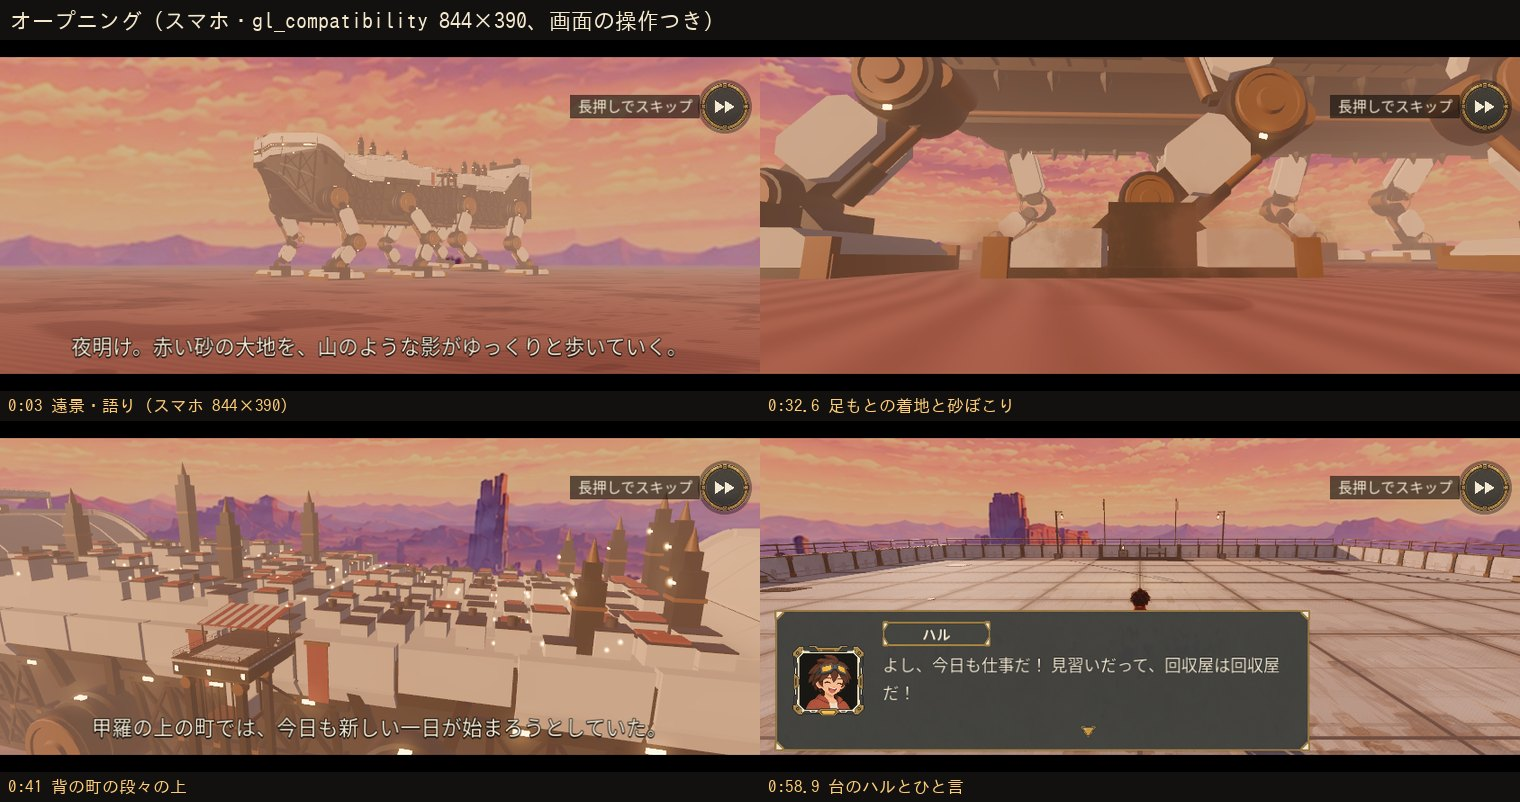
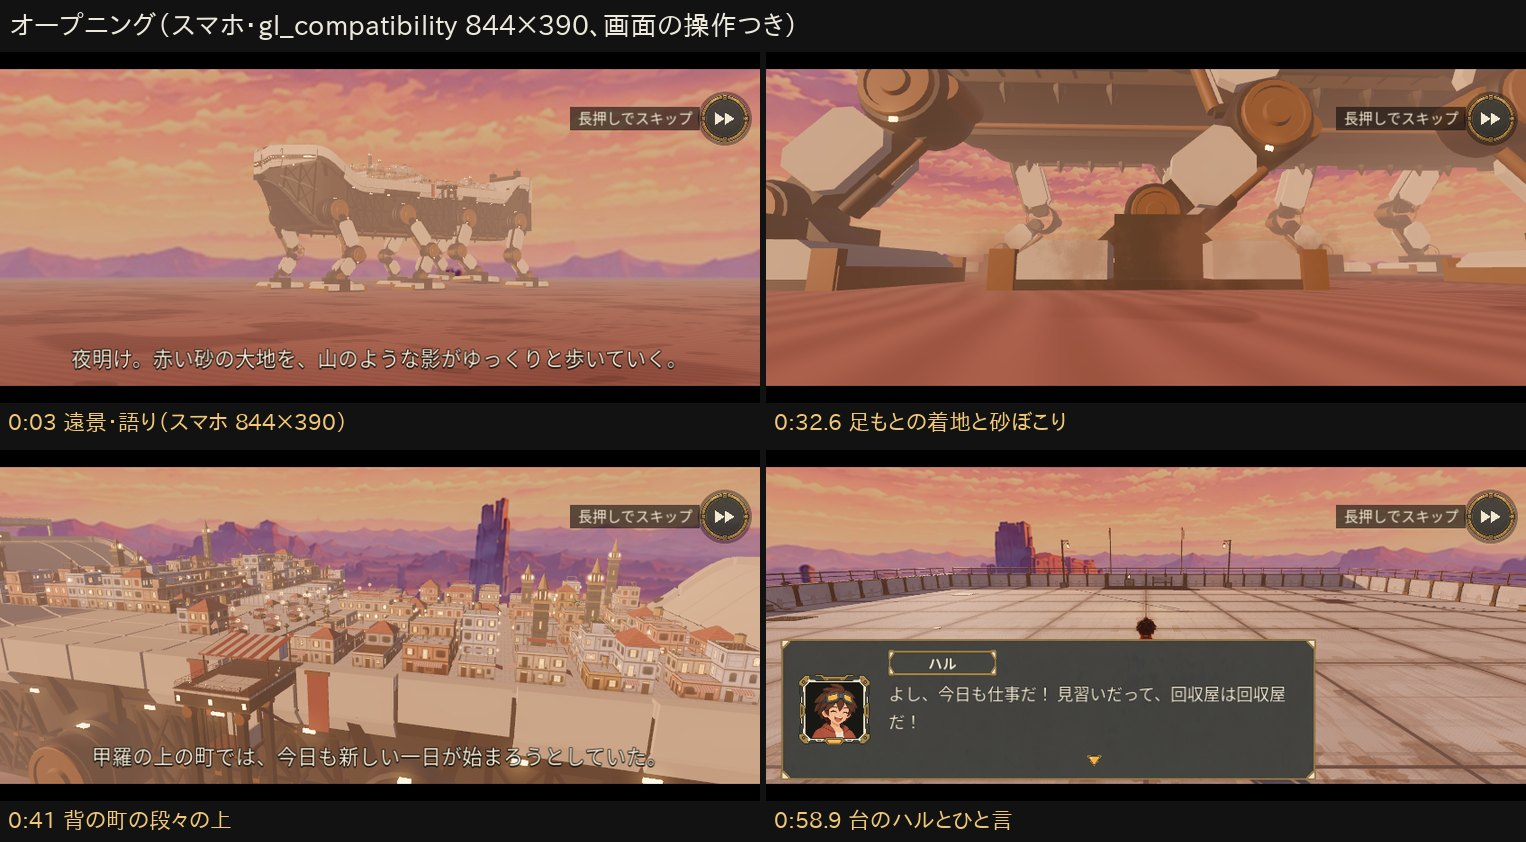
Back town: before/after sheets, re-shot opening and stop storyboards, plan doc numbers
Claude-Session: https://claude.ai/code/session_01Bcwddx3BN325aEnzr3cFiU

diff --git a/docs/art_orders/W2_オルド3D化の結果.md b/docs/art_orders/W2_オルド3D化の結果.md
@@ -515,6 +515,7 @@ Godot の画面（`tools/godot.sh shot --resolution 800x450 --script /abs/tools/
 | 停止 S1〜S3（外の舞台） | 16〜18 回・6.4 万 | 15〜17 回・6.3 万 |
 | 停止の家（眠る・目覚め・会話） | 71〜97 回・11.6 万 | 87 回・8.4 万 |
 
+- **2026-11-01**：背の町を作り直し（11.12）、どの場面も描画 +1（町の 1 つのメッシュ）・三角形 +2.1 万（町 2.9 万。前は体の面にまとめた 0.86 万）。D の 0:44 は道筋を下げて 65 回（前 67）。数は 11.12。
 - 遠くの場面は台を描かないので、オルド（3）・砂の床（1）・町の灯（1）・砂ぼこり（2：やわらかい塊と砂粒の層）・空と HUD だけ。前のオープニングの台の上のカメラ（PC 105・スマホ 108。10.4）より軽い。
   いちばん重いのは最後の台の上で、前と同じ部屋の同じ見え方（ハルの会話の窓の分 +10）。
 - 砂ぼこりの粒は大きな半透明の板なので、近いカメラでは数を減らし（11〜14 粒）、大きさを距離の 0.6 倍までにした（画面を何枚も覆わない）。
@@ -545,6 +546,8 @@ Godot の画面（`tools/godot.sh shot --resolution 800x450 --script /abs/tools/
 | `opening_pc.jpg` | オープニング 10 こま（PC 1600×900 から）：遠景・遠くの足の砂ぼこり・回り込み・足もとの着地・見上げ・縁を越えて町の上・頭へ・台のハル |
 | `opening_phone.jpg` | スマホ 4 こま（844×390）：遠景と語り・足もとの着地・町の上・台のハル |
 | `stop_pc.jpg` | 停止の場面 9 こま（PC）：眠る・夜のオルド・脚・着地の砂ぼこり・沈む・灯が消えていく・消えた町・家の目覚め・会話 |
+
+（3 枚とも 2026-11-01 に、作り直した背の町と下げた D の道筋で撮り直した：11.12）
 
 見て直したこと：①遠景のオルドがピンクの霞に溶けて平らに見えた → 夜明けの太陽を船首の左舷寄りへ、冷たい環境光と強い太陽（キットの `dawn`）、遠景の霞を薄く ②足もとのカメラが足の中に入った・遠すぎた → 足から約 70 m・砂の 1.5〜3 m 上
 ③砂の床の岩の斑が低いカメラから黒い穴に見えた → 場面の間は薄く ④足音の大きさ・揺れが遊びのカメラ（台の上）からの距離で決まっていた → 場面のカメラを決めたあとでオルドの時計を進める
@@ -593,3 +596,58 @@ Godot の画面（`tools/godot.sh shot --resolution 800x450 --script /abs/tools/
 - 上の段（床 11.5、z 34〜95）：広場、町長の家（x -29〜-15、z 52〜61、屋上の庭・日よけ・水槽）、ギルド（x 12〜28、3 階、丸窓・旗・日よけ・屋上の見張りの塔）、
   展望台の板張り（|x| < 8、z 64〜76）と塔、東西の家並み、船首の側の家と塔 2 つ。段の外の面に扉と灯。
 - 部屋との重なり：中段の部屋の下の段の家並み（`lower_block`）は z -54 まで、`ordo_back` は z -56.5 から（`test_back_town`）。下段の部屋の胸壁は z -22.5。
+
+軽さ（描画の回数・三角形。`--opening_shots` が出す数。前は作り直す前の同じ時刻・同じ道筋。D の 0:44・0:47 は道筋を下げたあと）：
+
+| 場面 | PC 前 | PC 後 | スマホ 前 | スマホ 後 |
+|------|-------|-------|-----------|-----------|
+| A 0:03 夜明けの遠景（いちばん広い） | 18・6.4 万 | 19・8.5 万 | 18・6.4 万 | 19・8.4 万 |
+| B 0:17 回り込み | 20・6.4 万 | 21・8.5 万 | — | — |
+| B 0:24 左舷の真横 | 17・6.4 万 | 18・8.4 万 | 22・6.4 万 | 23・8.5 万 |
+| D 0:41 縁を越えて町の上へ | 46・6.4 万 | 47・8.5 万 | 31・7.9 万 | 32・10.0 万 |
+| D 0:44 広場と市場の上 | 67・8.8 万 | 65・10.8 万 | — | — |
+| D 0:47 町の上を船首へ | 80・9.0 万 | 81・11.0 万 | 57・9.6 万 | 58・11.7 万 |
+| 停止 S1 夜のオルド（4.5 秒） | 16・6.4 万 | 17・8.4 万 | — | — |
+| 停止 S3 夜の見下ろし（15 秒） | 18・6.4 万 | 19・8.4 万 | 17・6.4 万 | 18・8.4 万 |
+
+- 町は 1 つのメッシュ・1 つの材質・1 枚の帳（1024 × 1024、取り込みは VRAM 圧縮と mipmap。約 1.3 MB）。影は落とさない。頂点 6.3 万（四角形ごとに 4 つ。GLB 2.2 MB：UV は 16 bit、頂点の色は 8 bit、番号は 16 bit）。
+- 灯の点は 297（窓 240・街灯 41・塔 16。前 218）。描画は前と同じ 1 回。
+
+確かめたこと：
+
+- `tools/godot.sh import`、`tools/godot.sh test`（全 228 本、確認 5,174 件、失敗 0）、`tools/godot.sh run --fixed-fps 60 -- --demo=build/ch1 --ch1_full`（CH1_RESULT）。
+  新しいテスト `test_ordo.gd` の `test_back_town`：町は骨組みの子の 1 つのメッシュ（面 1 つ・影なし・帳のシェーダーと帳の絵）、体の面は 3 つのまま、
+  三角形の上限（`ordo_town` 3.4 万・`ordo_back` 1.2 万）、町の中に収まる、`ordo_back` は z -55 より南、光る頂点がある、既定は消えている・昼は光らない・夜は光る、
+  明るさ・ちらつき・消えた割合を渡して雰囲気を替えても残る、灯の点にも同じ値、材質はオルドごと。`test_ordo_in_town_rooms` に「町は帳の部品の 1 つのメッシュ」。
+- 撮影：オープニングと停止（`--opening_shots`）を PC（Forward+）とスマホ（`gl_compatibility`）で、中段・下段の部屋の胸壁の向こう（`--town_audit --audit_views=<JSON>`。
+  昼・停電の夜・`"back_lights"` で灯した例）を PC とスマホで。前の画像は、作り直す前の `godot/` の写し（取り込み済み）を同じ引数で撮った。
+- 見て直したこと：①露店の屋根が下を向いていた（暗い裏の布が見えた）→ 面の向き ②帳の白磁の壁の模様（タイルの継ぎ目と金具）が濃く、遠くで灰色の点の柄に見えた → 濃さを 0.55 → 0.32
+  ③南の区画の塔 6 本が空の線を占めた → 4 本に、低く ④上の段の外の面（段の壁）が夜にただの灰色の格子 → 扉と灯 ⑤町の部屋の夜（停電の夜だけ）に遠くの窓が灯っていた → 既定は消す
+  ⑥こま並べの字の `_` が出ない字体 → 字体を替えた。
+
+| 画像（`docs/progress_shots/back_town/`） | 中身 |
+|------|------|
+| `back_town_pc_day.jpg` | 前と後（PC）：オープニングの遠景 0:03・左舷の真横 0:24・縁を越えて町の上 0:41・広場の上 0:44 |
+| `back_town_pc_night.jpg` | 前と後（PC）：停止の S1（夜のオルド）・S3（灯が消えていく・消えた町）、中段の部屋の停電の夜、灯した例 |
+| `back_town_phone.jpg` | 前と後（スマホ 844×390）：遠景・町の上 0:41・0:47・停止の S3、中段の部屋の昼と夜 |
+| `back_town_rooms.jpg` | 前と後（PC）：中段と下段の胸壁の向こう（昼）。中段の部屋の下の段の家並みと重ならない |
+
+部屋（`--town_audit`、PC・Forward+ 1600×900 とスマホ 844×390）：どの向きも描画 +1・三角形 +0.6 万（`ordo_back` 0.94 万。前 0.34 万）。
+
+| 向き | PC 前 | PC 後 | スマホ 前 | スマホ 後 |
+|------|-------|-------|-----------|-----------|
+| 中段 南の胸壁（いちばん重い） | 205・32.4 万 | 206・33.0 万 | 220・26.6 万 | 221・27.2 万 |
+| 中段 高い所から | 151・18.1 万 | 152・18.7 万 | 166・17.9 万 | 167・18.5 万 |
+| 下段 南の胸壁 | 136・24.9 万 | 137・25.5 万 | 151・19.0 万 | 152・19.6 万 |
+
+残り：
+
+| 残り | 中身 | いつ・どこで |
+|------|------|-------------|
+| 町の部屋の夜の遠くの町の灯 | 既定は消えている（町の部屋の夜は停電の夜だけ）。非常灯だけ残す・再始動の夜などは `OrdoView.set_back_lights`（部屋のオルドは `main._ordo()`） | 夜の明かりの仕事 |
+| 下段の胸壁の向こうの手前 | 胸壁（z -22.5）から `ordo_back`（z -56.5）までは前と同じく背の面のまま（下段の部屋の高い所からだけ見える） | 気になれば `ordo_back` の北に下段だけの区画を足す |
+| 遠くの町の人 | 人はいない（D の距離で 1 m の人は 1〜2 画素） | 要れば点の群れ（灯の点と同じ MultiMesh）で |
+
+かかった時間：約 2.3 時間（2026-11-01 09:13〜11:35 UTC ごろ。担当 1）。読み取りと設計 25 分、帳と町の作り 45 分、Godot の仕組みとテスト 25 分、
+撮って見て直す 30 分（前の画像は別の写しで撮った。撮影の多くはほかの仕事と Godot の順番待ち）、文書・こま並べ 15 分。
+
